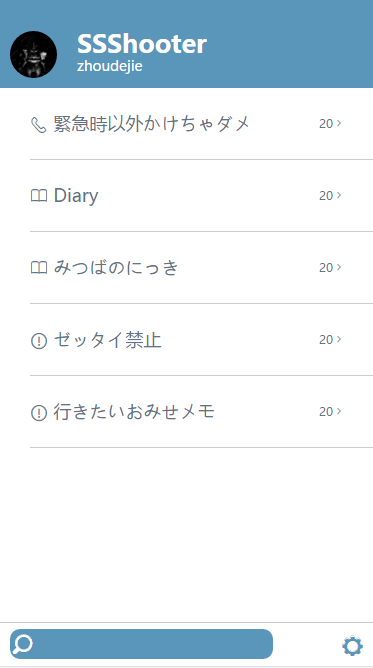
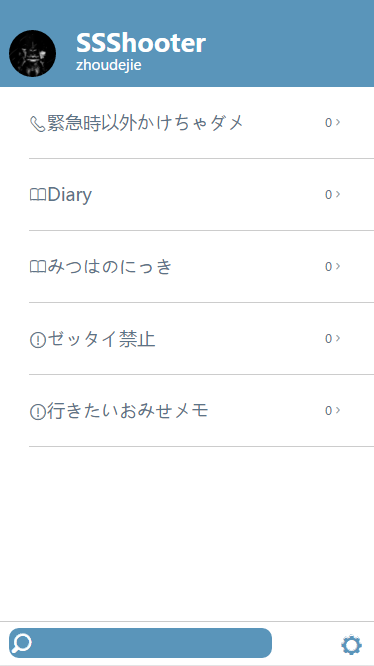
html5 version 90% complete

diff --git a/js/indexeddb.js b/js/indexeddb.js
@@ -10,12 +10,12 @@ var db_obj;
    request.onupgradeneeded = function (e) {//版本不一致时调用onupgradeneeded
       var thisDB = e.target.result;
       if (!thisDB.objectStoreNames.contains("diary")) {
-         var objStore = thisDB.createObjectStore("diary", {keyPath: "id", autoIncrement: true});
+         var objStore = thisDB.createObjectStore("diary", {keyPath: "diary_id"});
          objStore.createIndex("create_date", "create_date", {unique: false});
          objStore.createIndex("folder", "folder", {unique: false});
       }
       if (!thisDB.objectStoreNames.contains("list")) {
-         var objStore = thisDB.createObjectStore("list", {keyPath: "id", autoIncrement: true});
+         var objStore = thisDB.createObjectStore("list", {keyPath: "list_id"});
          objStore.createIndex("create_date", "create_date", {unique: false});
          objStore.createIndex("folder", "folder", {unique: false});
       }
@@ -81,21 +81,21 @@ function addmData(table, mdata, cb) {
       }
    }
 }
-function deleteData(id, cb) {
-   var transaction = db_obj.transaction("diary", 'readwrite');
+function deleteData(table, id, cb) {
+   var transaction = db_obj.transaction(table, 'readwrite');
    transaction.oncomplete = function () {
       console.log("transaction complete");
    };
    transaction.onerror = function (event) {
       console.dir(event)
    };
-   var objectStore = transaction.objectStore("diary");
-   var request = objectStore.delete(parseInt(id));
+   var objectStore = transaction.objectStore(table);
+   var request = objectStore.delete(id);
    request.onsuccess = function (e) {
       if (cb) {
          cb({
             error: 0,
-            data : parseInt(id)
+            data : id
          })
       }
    };
@@ -292,16 +292,16 @@ function updateData(table, id, updateData, cb) {
    }
 }
 
-function plus(table, id) {
-   var transaction = db_obj.transaction(table, 'readwrite');
+function plus(folder_id) {
+   var transaction = db_obj.transaction('menu', 'readwrite');
    transaction.oncomplete = function () {
       console.log("transaction complete");
    };
    transaction.onerror = function (event) {
       console.dir(event)
    };
-   var objectStore = transaction.objectStore(table);
-   var request = objectStore.get(id);
+   var objectStore = transaction.objectStore('menu');
+   var request = objectStore.get(Number(folder_id));
    request.onsuccess = function (e) {
       var thisDB = e.target.result;
       thisDB['count'] = thisDB['count']+1;
@@ -312,16 +312,16 @@ function plus(table, id) {
    }
 }
 
-function minus(table, id) {
-   var transaction = db_obj.transaction(table, 'readwrite');
+function minus(folder_id) {
+   var transaction = db_obj.transaction('menu', 'readwrite');
    transaction.oncomplete = function () {
       console.log("transaction complete");
    };
    transaction.onerror = function (event) {
       console.dir(event)
    };
-   var objectStore = transaction.objectStore(table);
-   var request = objectStore.get(id);
+   var objectStore = transaction.objectStore('menu');
+   var request = objectStore.get(Number(folder_id));
    request.onsuccess = function (e) {
       var thisDB = e.target.result;
       thisDB['count'] = thisDB['count']-1;

diff --git a/list.html b/list.html
@@ -17,6 +17,7 @@
 			width: 100vw;
 			background-color: #5A95BA;
 			color: #FFF;
+			z-index: 999;
 		}
 		header .title{
 			font-size: 25px;
@@ -46,11 +47,13 @@
 			line-height: 60px;
 			word-wrap: break-word;
 		}
-		#main ul li span{
-			word-wrap: break-word;
+		#main ul li input{
+			line-height: 30px;
+			border: none;
 		}
-		del{
+		.del{
 			opacity: 0.5;
+			text-decoration: line-through;
 		}
 	</style>
 </head>
@@ -62,13 +65,74 @@
 		</header>
 		<div id="main" class="container">
 			<ul>
-				<li>お風呂ぜっっったい禁止！！！！</li>
-				<li>体は見ない/触らない！！</li>
-				<li>脚をひらくな！</li>
-				<li><del>男子に触るな！<del></li>
-				<li>女子にも触るな！</li>
 			</ul>
 		</div>
 	</div>
+	<script type="text/javascript" src="js/common.js"></script>
+	<script type="text/javascript" src="js/indexeddb.js"></script>
+	<script type="text/javascript" src="lib/alloy_finger.js"></script>
+	<script type="text/javascript">
+		var folder = localStorage.getItem("folder");
+		var demoDate = [
+			{list_id:1,content:'お風呂ぜっっったい禁止！！！！',folder:4,type:'list'},
+			{list_id:2,content:'体は見ない/触らない！！',folder:4,type:'list'},
+			{list_id:3,content:'脚をひらくな！',folder:4,type:'list'},
+			{list_id:4,content:'男子に触るな！',folder:4,type:'list'},
+			{list_id:5,content:'女子にも触るな！',folder:4,type:'list'}
+		];
+		getDiaryBySearch("list", folder, process);
+		function process(rowdata){
+	    	var data = rowdata.data;
+	    	var monthDivision;
+	    	console.log(data);
+	    	for(var i = 0;i<data.length;i++){
+	    		var item = '<li id="'+data[i].list_id+'">'+data[i].content+'</li>';
+	    		console.log(item);
+	    		$("ul").append(item);
+	    	}
+	    	delInit();
+	    }
+	    $('li').not('.new').click(function() {
+	    	if ($(this).attr('class')==='del') {$(this).removeClass('del');}
+	    	else{$(this).addClass('del');}
+	    });
+	    var t = 0;
+	    $('.iconfont').click(function() {
+	    	if (t===0) {//new
+	    		$('ul').append('<li class="new-item"><input id="new"></li>'); 
+	    		$(this).removeClass('icon-qianbi').addClass('icon-book');
+	    		t=1;
+	    	}else{//save
+	    		var newvalue = $('#new').val(),
+	    		timestamp = new Date().getTime(),
+	    		list_id = 'lid'+timestamp;
+	    		var data = {list_id:list_id,content:newvalue,folder:folder,type:'list'};
+	    		newvalue = '<li id="'+ list_id +'">' + newvalue +'</li>';
+	    		addData("list",data);
+	    		plus(folder);
+	    		$("ul").append(newvalue);
+	    		$('.new-item').remove();
+	    		$(this).removeClass('icon-book').addClass('icon-qianbi');
+	    		t=0;
+	    		delInit();
+	    	}
+	    });
+
+	    function delInit(){
+	    	var item = document.getElementsByTagName('li');
+		    var tt;
+		    for(var i=0;i<item.length;i++){
+		    	new AlloyFinger(item[i], {
+		            longTap: function (e) {
+		            	var id = $(e.srcElement).attr('id');
+		            	$(e.srcElement).remove();
+		            	deleteData('list', id);
+		            	minus(folder);
+		            }
+		        });
+		    }
+	    }
+
+	</script>
 </body>
 </html>

diff --git a/Entries.html b/Entries.html
@@ -13,9 +13,11 @@
 		/*程序样式表*/
 		header{
 			/*padding for导航栏 22px + 分割用6px*/
+			position: fixed;
+			top: 0;
+			z-index: 999;
 			padding-top: 28px;
 			border-bottom: 1px solid #5A95BA;
-			position: fixed;
 			width: 100vw;
 			background-color: #fff;
 		}
@@ -27,7 +29,7 @@
 			background-image: url('52502973_p0.png');
 			background-repeat: repeat;
 			min-height: 100vh;
-			padding-top:95px; 
+			padding-top:89px; 
 			padding-bottom: 44px;
 		}
 		.item{
@@ -257,6 +259,7 @@
 	<script type="text/javascript" src="js/indexeddb.js"></script>
 	<script type="text/javascript">
 		$(".app").fadeIn('slow');
+		var demoDate = [{date:11,day:'Sun',time:'16:21',title:'バイト'}];
 		var folder = localStorage.getItem("folder");
 		getDiaryBySearch("diary", folder, process);
 		function process(rowdata){
@@ -265,7 +268,7 @@
 	    	console.log(data);
 	    	$('.total').html(data.length+' Entries');
 	    	for(var i = 0;i<data.length;i++){
-	    		var item = '<div id="'+data[i].id+'" data-toggle="modal" data-target="#myModal" class="item"><div class="date-and-week pull-left"><p class="date">'+data[i].date+'</p><p class="week">'+data[i].day+'</p></div><div class="content pull-left"><p class="create_time">'+data[i].time+'</p><p class="title">'+data[i].title+'</p><p class="description">'+data[i].description+'</p></div><div class="state pull-right"><i class="iconfont icon-qing"></i><i class="iconfont icon-smile-copy"></i><i class="iconfont icon-biaoqian"></i></div></div>';
+	    		var item = '<div id="'+data[i].diary_id+'" data-toggle="modal" data-target="#myModal" class="item"><div class="date-and-week pull-left"><p class="date">'+data[i].date+'</p><p class="week">'+data[i].day+'</p></div><div class="content pull-left"><p class="create_time">'+data[i].time+'</p><p class="title">'+data[i].title+'</p><p class="description">'+data[i].description+'</p></div><div class="state pull-right"><i class="iconfont icon-qing"></i><i class="iconfont icon-smile-copy"></i><i class="iconfont icon-biaoqian"></i></div></div>';
 	    		$("#main").prepend(item);
 	    		monthDivision = data[i].monthNum;
 	    		if(data[i+1]){

diff --git a/Diary.html b/Diary.html
@@ -144,14 +144,19 @@
 			var title = $(".diary-title").val()||'No Title';
 			//var content = document.getElementById("diary-content").value.replace(/\r/ig, "<br/>").replace(/\n/ig, "<br/>");//用jquery的.val()不能识别回车
 			var content = $("#diary-content").html();
-			var getFirstSentence = content.split("<");
-			var hm = $('.show-date .time .hm').html();//for hour Minute
-			var timestamp = new Date().getTime();
-			var create_date = getNowFormatDate();
-			var data = {id:"id"+timestamp,create_date:create_date,content:content,title:title,folder:folder,date:date,day:dayEng[day],time:time,month:monthEnglish[month],monthNum:month+1,type:"diary",description: getFirstSentence[0]};
-			console.log(data);
-			addData("diary",data);
-			plus("menu", Number(folder));
+			if(content){
+				var getFirstSentence = content.split("<");
+				var hm = $('.show-date .time .hm').html();//for hour Minute
+				var timestamp = new Date().getTime();
+				var create_date = getNowFormatDate();
+				var data = {diary_id:"did"+timestamp,create_date:create_date,content:content,title:title,folder:folder,date:date,day:dayEng[day],time:time,month:monthEnglish[month],monthNum:month+1,type:"diary",description: getFirstSentence[0]};
+				console.log(data);
+				addData("diary",data);
+				plus(folder);
+				setTimeout("location='Entries.html'",500);
+			}else{
+				alert("~content empty~");
+			}
 		}
 
 		function getNowFormatDate() {

diff --git a/home.html b/home.html
@@ -177,7 +177,7 @@
 			var data = [
 				{type:"phone",count:0 ,icon:"phone",name:"緊急時以外かけちゃダメ"},
 				{type:"diary",count:0 ,icon:"book",name:"Diary"},
-				{type:"diary",count:0 ,icon:"book",name:"みつばのにっき"},
+				{type:"diary",count:0 ,icon:"book",name:"みつはのにっき"},
 				{type:"list" ,count:0,icon:"alert",name:"ゼッタイ禁止"},
 				{type:"list" ,count:0,icon:"alert",name:"行きたいおみせメモ"}
 			];
